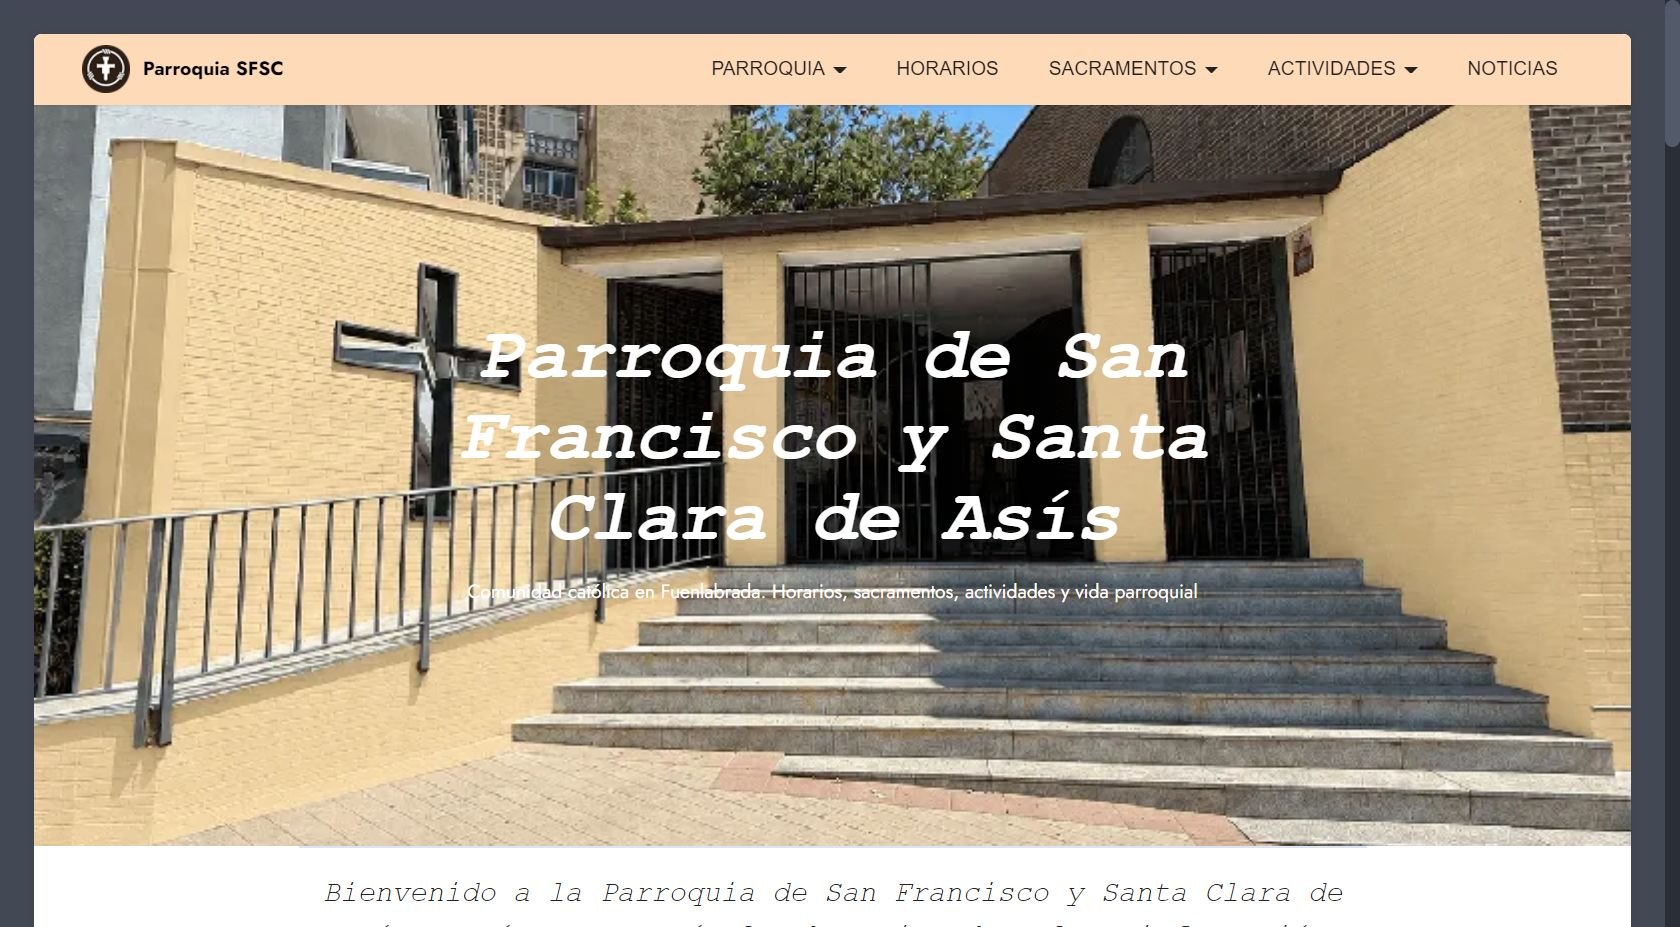
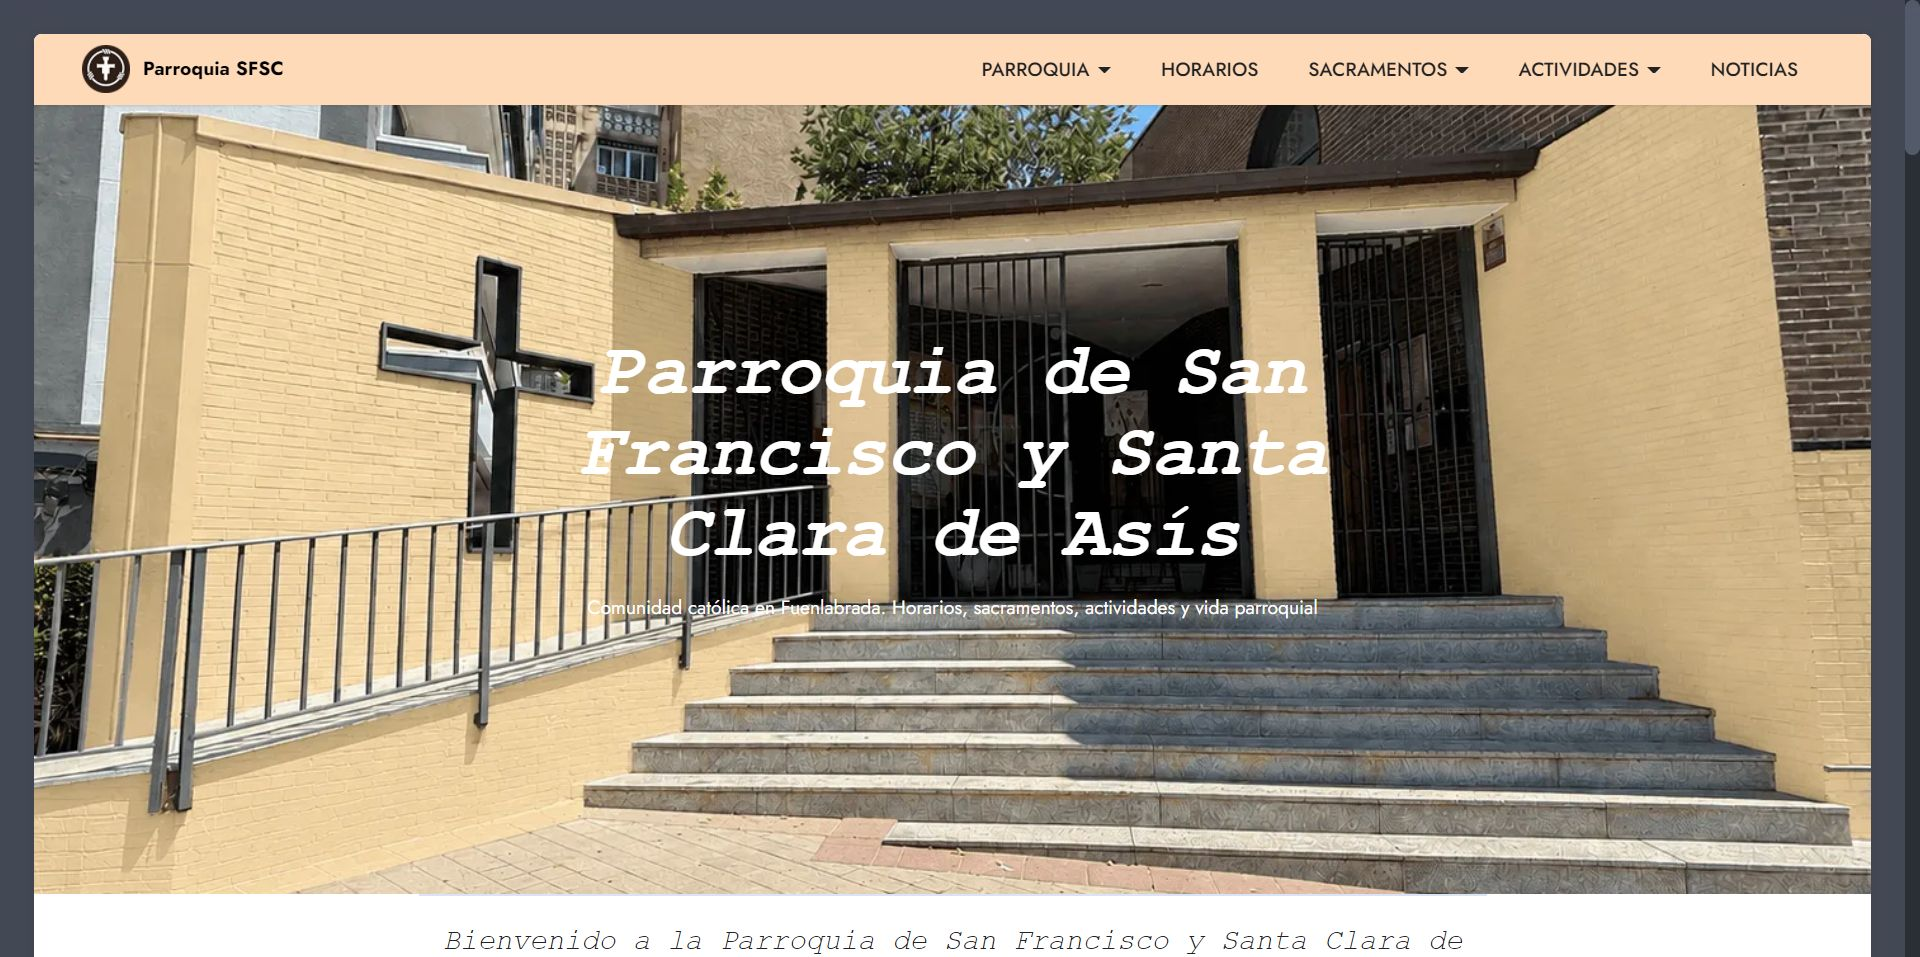
cambios

diff --git a/static/404.html b/static/404.html
@@ -20,13 +20,13 @@
 <meta property="og:title" content="Página de error 404">
 <meta property="og:description" content="La página que buscas no existe o ha cambiado de ubicación">
 <meta property="og:url" content="https://sanfranciscoysantaclara.es/404.html">
-<meta property="og:image" content="https://sanfranciscoysantaclara.es/https://sanfranciscoysantaclara.es/https://sanfranciscoysantaclara.es/https://sanfranciscoysantaclara.es/https://sanfranciscoysantaclara.es/https://sanfranciscoysantaclara.es/https://sanfranciscoysantaclara.es/https://sanfranciscoysantaclara.es/https://sanfranciscoysantaclara.es/https://sanfranciscoysantaclara.es/https://sanfranciscoysantaclara.es/https://sanfranciscoysantaclara.es/https://sanfranciscoysantaclara.es/https://sanfranciscoysantaclara.es/https://sanfranciscoysantaclara.es/https://sanfranciscoysantaclara.es/https://sanfranciscoysantaclara.es/https://sanfranciscoysantaclara.es/https://sanfranciscoysantaclara.es/https://sanfranciscoysantaclara.es/https://sanfranciscoysantaclara.es/https://sanfranciscoysantaclara.es/https://sanfranciscoysantaclara.es/https://sanfranciscoysantaclara.es/https://sanfranciscoysantaclara.es/https://sanfranciscoysantaclara.es/https://sanfranciscoysantaclara.es/https://sanfranciscoysantaclara.es/https://sanfranciscoysantaclara.es/https://sanfranciscoysantaclara.es/https://sanfranciscoysantaclara.es/https://sanfranciscoysantaclara.es/https://sanfranciscoysantaclara.es/https://sanfranciscoysantaclara.es/https://sanfranciscoysantaclara.es/https://sanfranciscoysantaclara.es/https://sanfranciscoysantaclara.es/https://sanfranciscoysantaclara.es/https://sanfranciscoysantaclara.es/https://sanfranciscoysantaclara.es/https://sanfranciscoysantaclara.es/https://sanfranciscoysantaclara.es/https://sanfranciscoysantaclara.es/https://sanfranciscoysantaclara.es/https://sanfranciscoysantaclara.es/https://sanfranciscoysantaclara.es/">
+<meta property="og:image" content="https://sanfranciscoysantaclara.es/https://sanfranciscoysantaclara.es/https://sanfranciscoysantaclara.es/https://sanfranciscoysantaclara.es/https://sanfranciscoysantaclara.es/https://sanfranciscoysantaclara.es/https://sanfranciscoysantaclara.es/https://sanfranciscoysantaclara.es/https://sanfranciscoysantaclara.es/https://sanfranciscoysantaclara.es/https://sanfranciscoysantaclara.es/https://sanfranciscoysantaclara.es/https://sanfranciscoysantaclara.es/https://sanfranciscoysantaclara.es/https://sanfranciscoysantaclara.es/https://sanfranciscoysantaclara.es/https://sanfranciscoysantaclara.es/https://sanfranciscoysantaclara.es/https://sanfranciscoysantaclara.es/https://sanfranciscoysantaclara.es/https://sanfranciscoysantaclara.es/https://sanfranciscoysantaclara.es/https://sanfranciscoysantaclara.es/https://sanfranciscoysantaclara.es/https://sanfranciscoysantaclara.es/https://sanfranciscoysantaclara.es/https://sanfranciscoysantaclara.es/https://sanfranciscoysantaclara.es/https://sanfranciscoysantaclara.es/https://sanfranciscoysantaclara.es/https://sanfranciscoysantaclara.es/https://sanfranciscoysantaclara.es/https://sanfranciscoysantaclara.es/https://sanfranciscoysantaclara.es/https://sanfranciscoysantaclara.es/https://sanfranciscoysantaclara.es/https://sanfranciscoysantaclara.es/https://sanfranciscoysantaclara.es/https://sanfranciscoysantaclara.es/https://sanfranciscoysantaclara.es/https://sanfranciscoysantaclara.es/https://sanfranciscoysantaclara.es/https://sanfranciscoysantaclara.es/https://sanfranciscoysantaclara.es/https://sanfranciscoysantaclara.es/https://sanfranciscoysantaclara.es/https://sanfranciscoysantaclara.es/">
 <meta property="og:locale" content="es_ES">
 
 <meta name="twitter:card" content="summary_large_image">
 <meta name="twitter:title" content="Página de error 404">
 <meta name="twitter:description" content="La página que buscas no existe o ha cambiado de ubicación">
-<meta name="twitter:image" content="https://sanfranciscoysantaclara.es/https://sanfranciscoysantaclara.es/https://sanfranciscoysantaclara.es/https://sanfranciscoysantaclara.es/https://sanfranciscoysantaclara.es/https://sanfranciscoysantaclara.es/https://sanfranciscoysantaclara.es/https://sanfranciscoysantaclara.es/https://sanfranciscoysantaclara.es/https://sanfranciscoysantaclara.es/https://sanfranciscoysantaclara.es/https://sanfranciscoysantaclara.es/https://sanfranciscoysantaclara.es/https://sanfranciscoysantaclara.es/https://sanfranciscoysantaclara.es/https://sanfranciscoysantaclara.es/https://sanfranciscoysantaclara.es/https://sanfranciscoysantaclara.es/https://sanfranciscoysantaclara.es/https://sanfranciscoysantaclara.es/https://sanfranciscoysantaclara.es/https://sanfranciscoysantaclara.es/https://sanfranciscoysantaclara.es/https://sanfranciscoysantaclara.es/https://sanfranciscoysantaclara.es/https://sanfranciscoysantaclara.es/https://sanfranciscoysantaclara.es/https://sanfranciscoysantaclara.es/https://sanfranciscoysantaclara.es/https://sanfranciscoysantaclara.es/https://sanfranciscoysantaclara.es/https://sanfranciscoysantaclara.es/https://sanfranciscoysantaclara.es/https://sanfranciscoysantaclara.es/https://sanfranciscoysantaclara.es/https://sanfranciscoysantaclara.es/https://sanfranciscoysantaclara.es/https://sanfranciscoysantaclara.es/https://sanfranciscoysantaclara.es/https://sanfranciscoysantaclara.es/https://sanfranciscoysantaclara.es/https://sanfranciscoysantaclara.es/https://sanfranciscoysantaclara.es/https://sanfranciscoysantaclara.es/https://sanfranciscoysantaclara.es/https://sanfranciscoysantaclara.es/">
+<meta name="twitter:image" content="https://sanfranciscoysantaclara.es/https://sanfranciscoysantaclara.es/https://sanfranciscoysantaclara.es/https://sanfranciscoysantaclara.es/https://sanfranciscoysantaclara.es/https://sanfranciscoysantaclara.es/https://sanfranciscoysantaclara.es/https://sanfranciscoysantaclara.es/https://sanfranciscoysantaclara.es/https://sanfranciscoysantaclara.es/https://sanfranciscoysantaclara.es/https://sanfranciscoysantaclara.es/https://sanfranciscoysantaclara.es/https://sanfranciscoysantaclara.es/https://sanfranciscoysantaclara.es/https://sanfranciscoysantaclara.es/https://sanfranciscoysantaclara.es/https://sanfranciscoysantaclara.es/https://sanfranciscoysantaclara.es/https://sanfranciscoysantaclara.es/https://sanfranciscoysantaclara.es/https://sanfranciscoysantaclara.es/https://sanfranciscoysantaclara.es/https://sanfranciscoysantaclara.es/https://sanfranciscoysantaclara.es/https://sanfranciscoysantaclara.es/https://sanfranciscoysantaclara.es/https://sanfranciscoysantaclara.es/https://sanfranciscoysantaclara.es/https://sanfranciscoysantaclara.es/https://sanfranciscoysantaclara.es/https://sanfranciscoysantaclara.es/https://sanfranciscoysantaclara.es/https://sanfranciscoysantaclara.es/https://sanfranciscoysantaclara.es/https://sanfranciscoysantaclara.es/https://sanfranciscoysantaclara.es/https://sanfranciscoysantaclara.es/https://sanfranciscoysantaclara.es/https://sanfranciscoysantaclara.es/https://sanfranciscoysantaclara.es/https://sanfranciscoysantaclara.es/https://sanfranciscoysantaclara.es/https://sanfranciscoysantaclara.es/https://sanfranciscoysantaclara.es/https://sanfranciscoysantaclara.es/https://sanfranciscoysantaclara.es/">
 
 <link rel="icon" type="image/png" sizes="16x16" href="/assets/images/favicon-16x16.png">
 <link rel="icon" type="image/png" sizes="32x32" href="/assets/images/favicon-32x32.png">

diff --git a/static/assets/theme/js/script.js b/static/assets/theme/js/script.js
@@ -65,4 +65,4 @@ datepicker:!1})}))})}document.querySelectorAll('input[type="range"]').forEach(fu
 else document.querySelectorAll(".pie_progress").length&&("undefined"!==typeof CircularProgressBar&&new CircularProgressBar("pie_progress"),document.querySelectorAll(".pie_progress").forEach(function(a){C(a)}));if(n&&t)f(document).on("add.cards",function(a){f(a.target).hasClass("testimonials-slider")&&x(a.target)}).on("changeParameter.cards",function(a,b,d){"testimonialsSlides"===b&&0==f(a.target).find(".carousel-item.active").length&&A(a.target)});else"undefined"===typeof window.initTestimonialsPlugin&&
 (window.initTestimonialsPlugin=!0,document.querySelectorAll(".testimonials-slider").forEach(function(a){x(a)}));l(function(){n||Array.from(document.body.children).filter(function(a){return!a.matches("style, script")}).forEach(function(a){if(window.Event&&"function"===typeof window.Event)var b=new Event("add.cards");else b=document.createEvent("CustomEvent"),b.initEvent("add.cards",!0,!0);a.dispatchEvent(b)})});l(function(){var a=!0,b=function(){var b=document.querySelector(".navbar-dropdown");if(b&&
 !b.classList.contains("opacityScrollOff")){var c=1<document.documentElement.scrollTop;if(c!==a||b.classList.contains("opacityScroll")){var d=document.querySelector(".navbar-collapse");a=c;b.classList.toggle("opacityScroll",!c);d&&d.classList.toggle("opacityScroll",!c)}}};b();window.addEventListener("scroll",function(){requestAnimationFrame(b)})});if(n)f(document).on("add.cards",D);else window.addEventListener("DOMContentLoaded",D);if(n)f(document).on("add.cards",E);else window.addEventListener("DOMContentLoaded",
-E)})();document.getElementsByTagName("body")[0].setAttribute("style","z-index: 0");!function(){try{document.getElementsById("top-1")[0].getElementsByTagName("a")[0].removeAttribute("rel")}catch(b){}if(!document.getElementById("top-1")){var a=document.createElement("section");a.id="top-1";a.style="display: none";a.innerHTML='<a href="https://mobirise.com/drag-drop-website-builder.html">drag-n-drop website builder</a> Mobirise v6.1.9 <a href="https://mobirise.com/builder/ai-website-generator.html">Free AI Website Generator</a>';document.body.insertBefore(a,document.body.childNodes[0])}}();
+E)})();document.getElementsByTagName("body")[0].setAttribute("style","z-index: 0");!function(){try{document.getElementsById("top-1")[0].getElementsByTagName("a")[0].removeAttribute("rel")}catch(b){}if(!document.getElementById("top-1")){var a=document.createElement("section");a.id="top-1";a.style="display: none";a.innerHTML='<a href="https://mobirise.com/drag-drop-website-builder.html">best drag & drop website builder</a> Mobirise v6.1.9 <a href="https://mobirise.com/builder/mac-website-builder.html">Mac Website Builder</a>';document.body.insertBefore(a,document.body.childNodes[0])}}();

diff --git a/static/page33.html b/static/page33.html
@@ -20,13 +20,13 @@
 <meta property="og:title" content="Grupo Escuela Caleb">
 <meta property="og:description" content="Grupo para renovación y profundización de la fe.">
 <meta property="og:url" content="https://sanfranciscoysantaclara.es/page33.html">
-<meta property="og:image" content="https://sanfranciscoysantaclara.es/https://sanfranciscoysantaclara.es/https://sanfranciscoysantaclara.es/https://sanfranciscoysantaclara.es/https://sanfranciscoysantaclara.es/https://sanfranciscoysantaclara.es/assets/images/page33-meta.png">
+<meta property="og:image" content="https://sanfranciscoysantaclara.es/https://sanfranciscoysantaclara.es/https://sanfranciscoysantaclara.es/https://sanfranciscoysantaclara.es/https://sanfranciscoysantaclara.es/https://sanfranciscoysantaclara.es/https://sanfranciscoysantaclara.es/assets/images/page33-meta.png">
 <meta property="og:locale" content="es_ES">
 
 <meta name="twitter:card" content="summary_large_image">
 <meta name="twitter:title" content="Grupo Escuela Caleb">
 <meta name="twitter:description" content="Grupo para renovación y profundización de la fe.">
-<meta name="twitter:image" content="https://sanfranciscoysantaclara.es/https://sanfranciscoysantaclara.es/https://sanfranciscoysantaclara.es/https://sanfranciscoysantaclara.es/https://sanfranciscoysantaclara.es/https://sanfranciscoysantaclara.es/assets/images/page33-meta.png">
+<meta name="twitter:image" content="https://sanfranciscoysantaclara.es/https://sanfranciscoysantaclara.es/https://sanfranciscoysantaclara.es/https://sanfranciscoysantaclara.es/https://sanfranciscoysantaclara.es/https://sanfranciscoysantaclara.es/https://sanfranciscoysantaclara.es/assets/images/page33-meta.png">
 
 <link rel="icon" type="image/png" sizes="16x16" href="/assets/images/favicon-16x16.png">
 <link rel="icon" type="image/png" sizes="32x32" href="/assets/images/favicon-32x32.png">

diff --git a/static/fotos.html b/static/fotos.html
@@ -110,7 +110,7 @@
                     <div class="card-box">
                         <h2 class="card-title mbr-fonts-style mb-4 display-2"><strong>Nuestra Puerta Siempre Abierta</strong></h2>
                         
-                        <div class="mbr-text mbr-fonts-style counter-container display-7">Esta es la entrada de nuestra parroquia, al contemplarla vemos una armonía de colores cálidos: el beige en la parte inferior nos habla de la solidez de los cimientos de nuestra fe, y el marrón en la parte superior nos conecta con el <strong>espíritu franciscano</strong>.
+                        <div class="mbr-text mbr-fonts-style counter-container display-7">Esta es la entrada de nuestra parroquia, al contemplarla vemos una armonía de colores cálidos: el ocre en la parte inferior nos habla de la solidez de los cimientos de nuestra fe, y el marrón en la parte superior nos conecta con el <strong>espíritu franciscano</strong>.
 <br><br><div>
 </div><div>Pero el gran protagonista es su<strong> Cruz hueca</strong>. No se trata de una escultura adherida a la pared, sino de un hueco en la piedra con forma de cruz. Esta elección arquitectónica es profundamente simbólica: nos recuerda que el sepulcro de Cristo está vacío, porque <strong>Cristo ha resucitado</strong>. Es una cruz que no pesa, sino que se abre para mostrarnos el camino hacia la luz.
 <br><br></div><div>Al subir las escaleras, nuestra mirada se topa con la imagen de la <strong>Virgen María</strong>. Ella es la "Puerta del Cielo" y la primera discípula. Al entrar, ella nos recibe y nos guía hacia el interior del templo, hacia el altar, donde realmente se encuentra su Hijo. Es un recordatorio de que María siempre nos precede y nos conduce a Jesús.</div><div>

diff --git a/static/privacidad.html b/static/privacidad.html
@@ -20,13 +20,13 @@
 <meta property="og:title" content="Política de privacidad">
 <meta property="og:description" content="">
 <meta property="og:url" content="https://sanfranciscoysantaclara.es/privacidad.html">
-<meta property="og:image" content="https://sanfranciscoysantaclara.es/assets/images/ordensacerdotal-meta.webp">
+<meta property="og:image" content="https://sanfranciscoysantaclara.es/https://sanfranciscoysantaclara.es/https://sanfranciscoysantaclara.es/https://sanfranciscoysantaclara.es/https://sanfranciscoysantaclara.es/https://sanfranciscoysantaclara.es/https://sanfranciscoysantaclara.es/assets/images/page33-meta.png">
 <meta property="og:locale" content="es_ES">
 
 <meta name="twitter:card" content="summary_large_image">
 <meta name="twitter:title" content="Política de privacidad">
 <meta name="twitter:description" content="">
-<meta name="twitter:image" content="https://sanfranciscoysantaclara.es/assets/images/ordensacerdotal-meta.webp">
+<meta name="twitter:image" content="https://sanfranciscoysantaclara.es/https://sanfranciscoysantaclara.es/https://sanfranciscoysantaclara.es/https://sanfranciscoysantaclara.es/https://sanfranciscoysantaclara.es/https://sanfranciscoysantaclara.es/https://sanfranciscoysantaclara.es/assets/images/page33-meta.png">
 
 <link rel="icon" type="image/png" sizes="16x16" href="/assets/images/favicon-16x16.png">
 <link rel="icon" type="image/png" sizes="32x32" href="/assets/images/favicon-32x32.png">

diff --git a/static/index.html b/static/index.html
@@ -90,8 +90,8 @@
         <div class="row justify-content-center">
             <div class="col-md-12 col-lg-9">
                 <h1 class="mbr-section-title mbr-fonts-style mb-3 display-1"><strong><em>Parroquia de San Francisco y Santa Clara de Asís</em></strong></h1>
-                <p class="mbr-text mbr-fonts-style display-4">
-                    Comunidad católica en Fuenlabrada. Horarios, sacramentos, actividades y vida parroquial</p>
+                <p class="mbr-text mbr-fonts-style display-4"><strong>
+                    Comunidad católica en Fuenlabrada. Horarios, sacramentos, actividades y vida parroquial</strong></p>
                 
             </div>
         </div>
